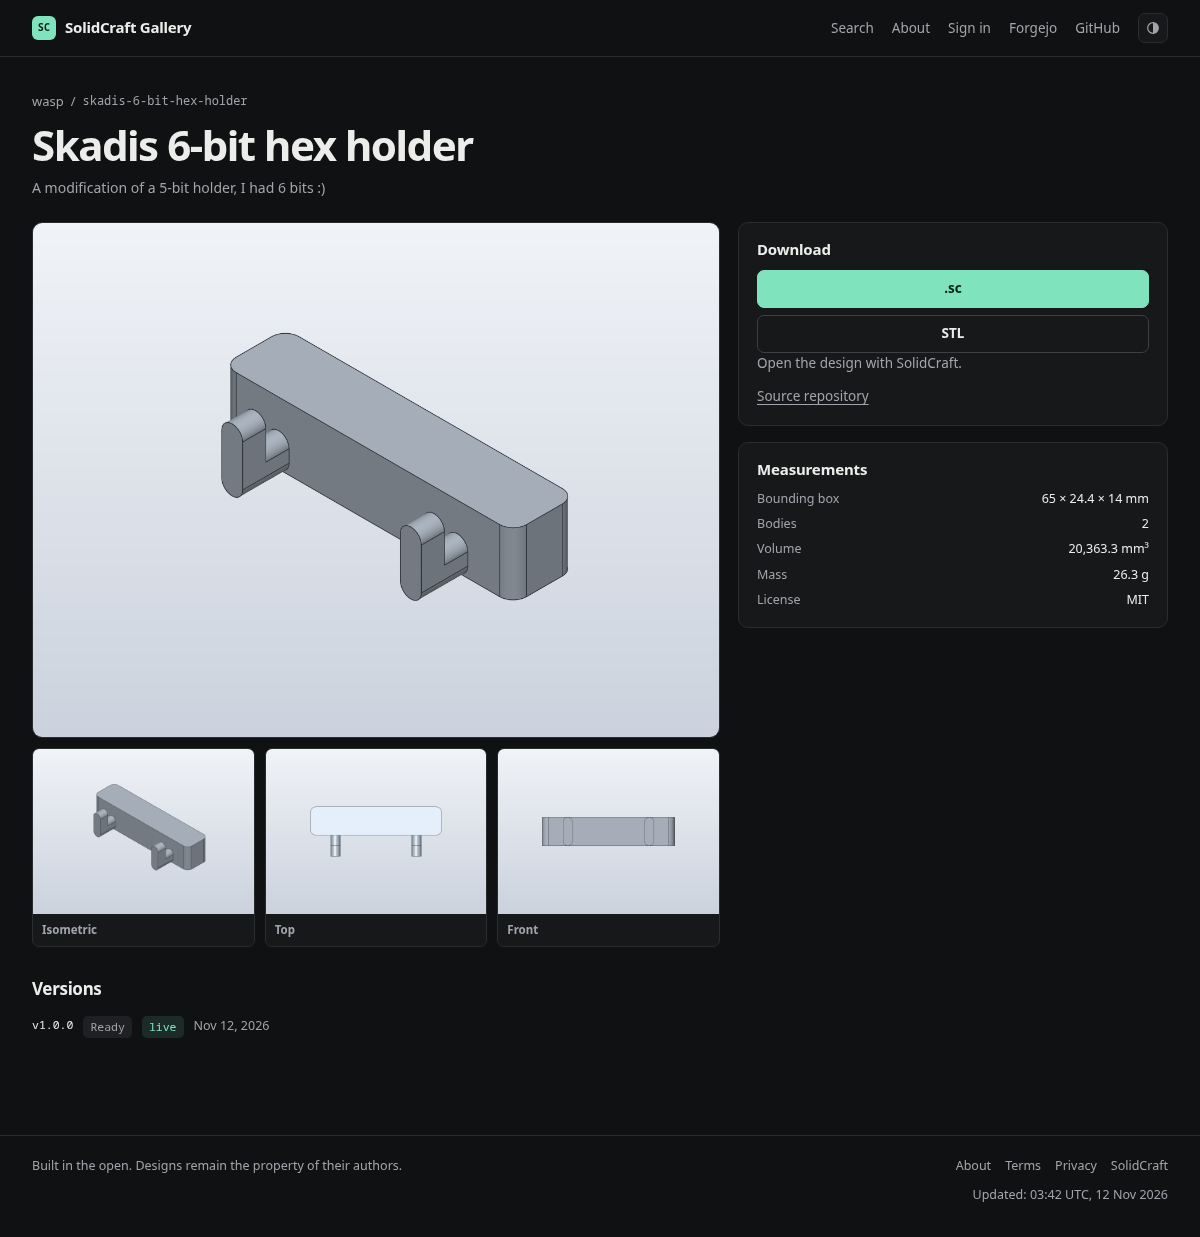
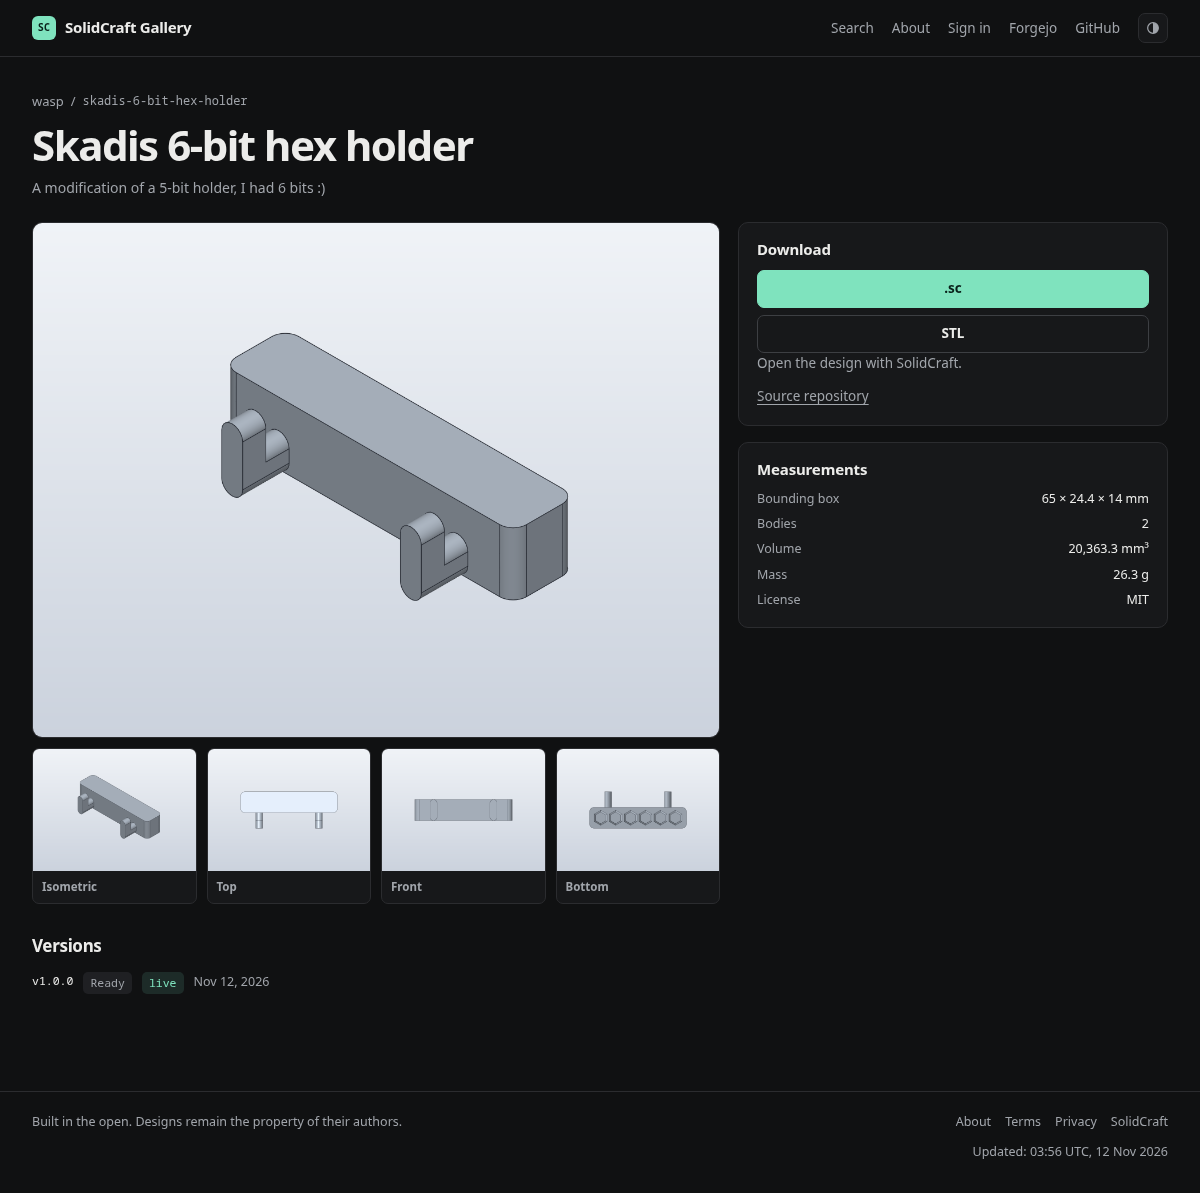
docs: refresh project screenshots for the bottom view

diff --git a/STATUS.md b/STATUS.md
@@ -134,6 +134,8 @@ The single-host stack is deployed with Ansible to `root@192.168.88.222` (see
 - A Forgejo admin token is configured as `FORGEJO_ADMIN_TOKEN`. A real `POST /api/v1/user/repos` /
   `DELETE /api/v1/repos/...` round trip with that token succeeded, and the web container has it, so
   hosted projects now provision real Forgejo repositories instead of local git.
+- The project page shows four shots (isometric, top, front, bottom) in a clickable strip with a
+  lightbox, and downloads name the design `.sc`.
 - The gallery is on a **closed beta**: `INVITE_REQUIRED=1`, so a new provider identity needs a
   valid invite unless it matches `ADMIN_USERNAMES`. New people register at
   `/auth/register?invite=<code>`, linked from the sign-in page (which has no invite input). An invite
